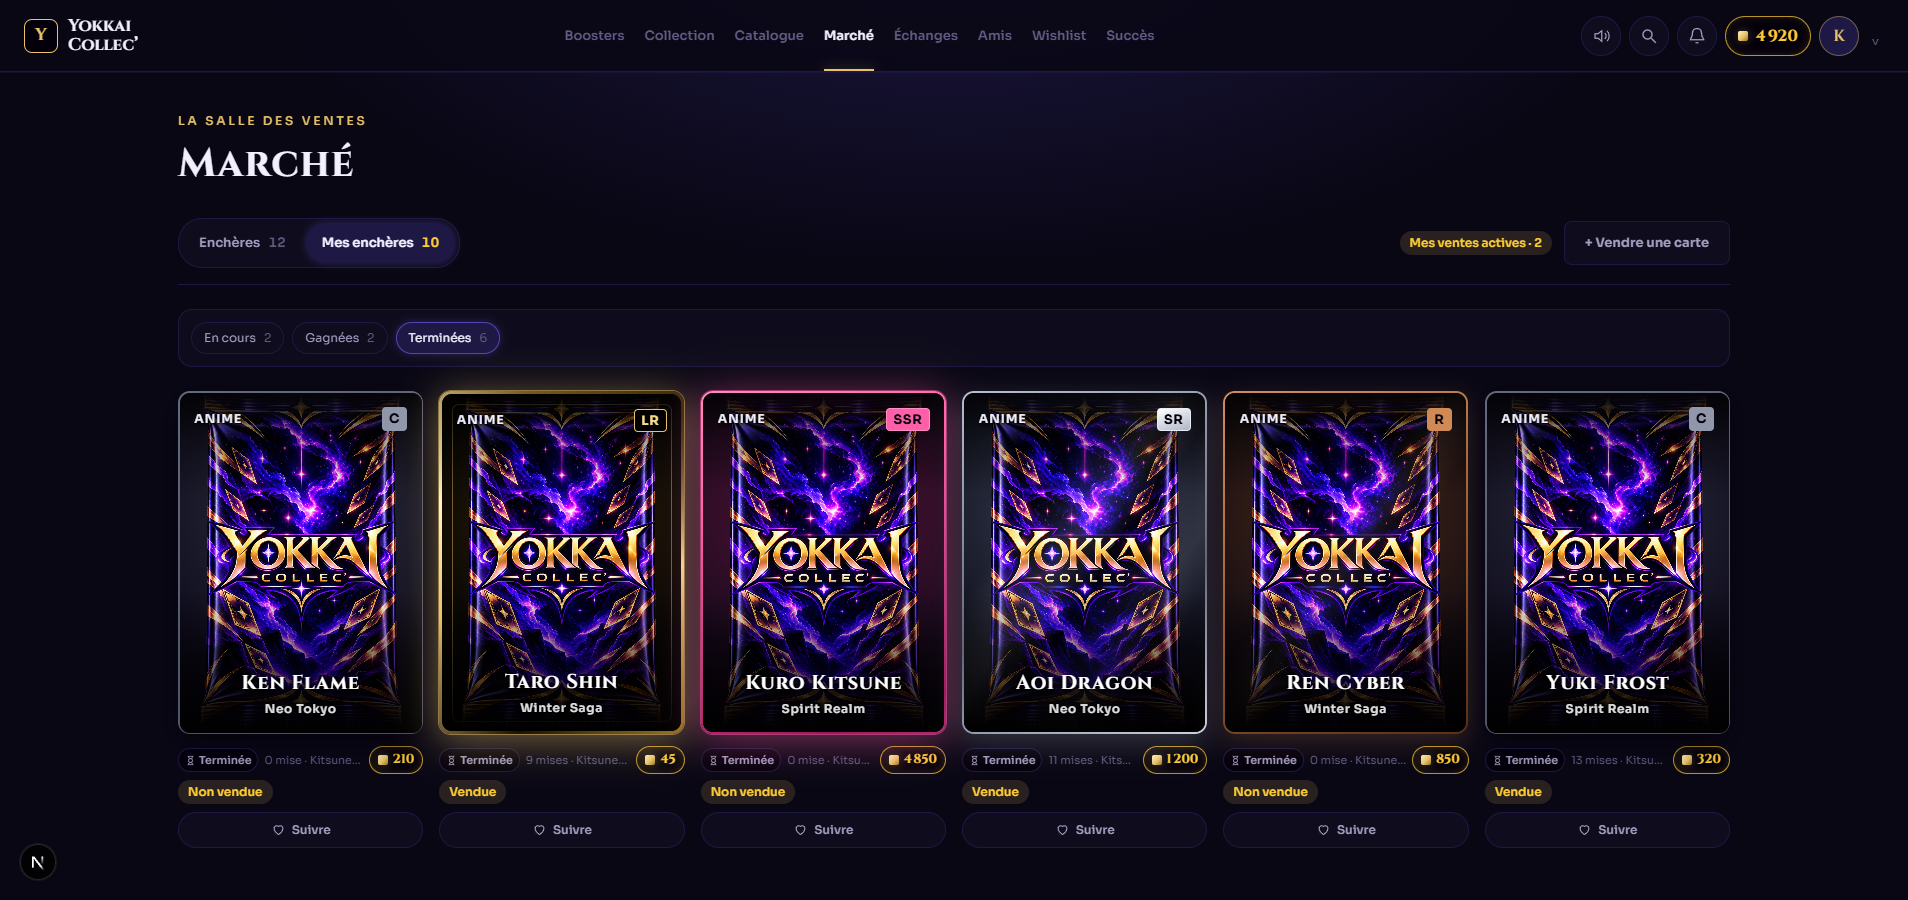
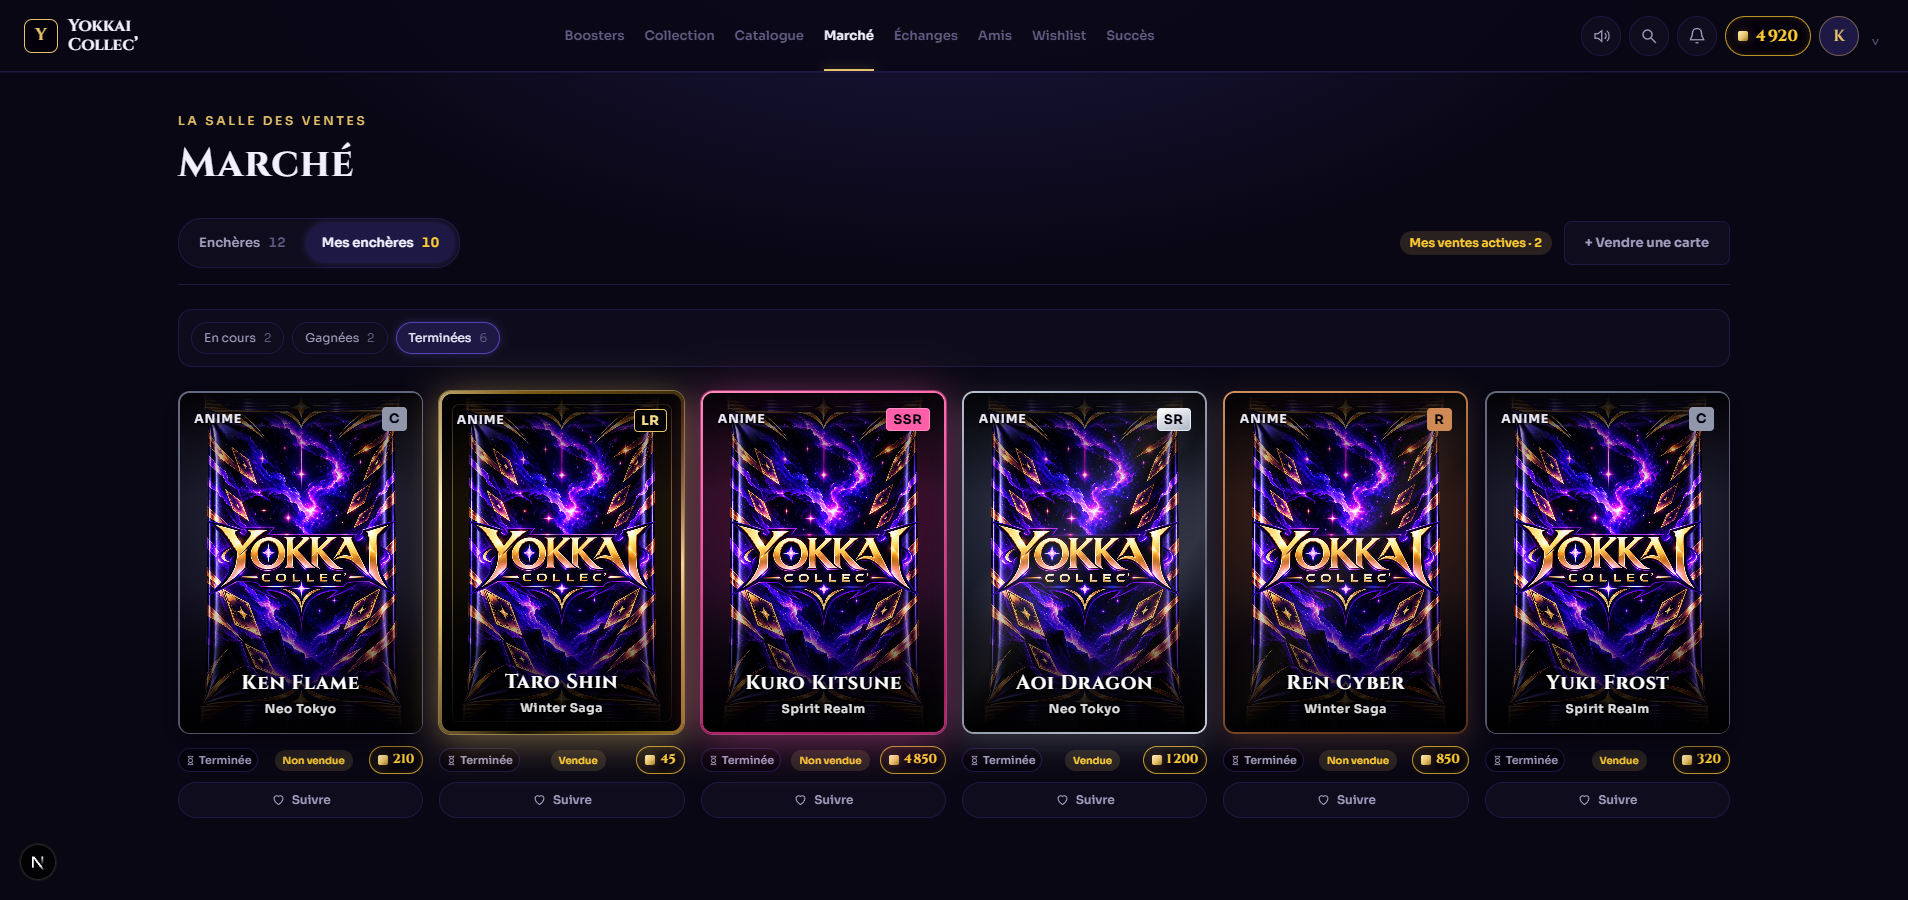
fix(ui): status on the market tile line; heart-only watch on mobile detail
- Tiles: drop the bid count and seller; the status pill (En tête, Ma
  vente, Vendue...) takes their place between timer and price on tiles
  of 14rem+, and drops below on narrower tiles instead of truncating
- Auction detail (mobile): the Suivre button becomes a 44px heart next
  to the title; the label stays available to screen readers
- Watch hover styles limited to fine pointers so the watched colour is
  not overridden by sticky hover after a tap

diff --git a/components/community-views.tsx b/components/community-views.tsx
@@ -45,13 +45,13 @@ const formatKaras = (amount:number) => `${amount.toLocaleString("fr-FR")} Karas`
 function HourglassIcon() { return <svg aria-hidden="true" width="13" height="13" viewBox="0 0 24 24" fill="none" stroke="currentColor" strokeWidth="1.8" strokeLinecap="round" strokeLinejoin="round"><path d="M6 3h12M6 21h12M7 3c0 5 10 5 10 9s-10 4-10 9M17 3c0 5-10 5-10 9s10 4 10 9"/></svg>; }
 function WatchButton({ watched, onToggle, className = "" }: { watched?: boolean; onToggle?: () => Promise<void>; className?: string }) {
   const [busy,setBusy]=useState(false);
-  return <button type="button" aria-pressed={!!watched} disabled={!onToggle||busy} className={`yk-watch-button ${watched?"yk-watching":""} ${className}`} onClick={async()=>{if(!onToggle||busy)return;setBusy(true);try{await onToggle();}finally{setBusy(false);}}}><svg aria-hidden="true" width="15" height="15" viewBox="0 0 24 24" fill={watched?"currentColor":"none"} stroke="currentColor" strokeWidth="1.8" strokeLinejoin="round"><path d="M12 20s-7-4.35-7-10a4 4 0 0 1 7-2.65A4 4 0 0 1 19 10c0 5.65-7 10-7 10Z"/></svg><span>{watched?"Suivi":"Suivre"}</span></button>;
+  return <button type="button" aria-pressed={!!watched} disabled={!onToggle||busy} aria-label={watched?"Ne plus suivre cette enchère":"Suivre cette enchère"} className={`yk-watch-button ${watched?"yk-watching":""} ${className}`} onClick={async()=>{if(!onToggle||busy)return;setBusy(true);try{await onToggle();}finally{setBusy(false);}}}><svg aria-hidden="true" width="15" height="15" viewBox="0 0 24 24" fill={watched?"currentColor":"none"} stroke="currentColor" strokeWidth="1.8" strokeLinejoin="round"><path d="M12 20s-7-4.35-7-10a4 4 0 0 1 7-2.65A4 4 0 0 1 19 10c0 5.65-7 10-7 10Z"/></svg><span className="yk-watch-label">{watched?"Suivi":"Suivre"}</span></button>;
 }
 function AuctionTile({ auction: a, onToggleWatch }: { auction: AuctionPresentation; onToggleWatch?: (id: string) => Promise<void> }) {
   return <li className="yk-market-tile">
     <Link href={`/marche/${a.id}`} className="yk-market-tile-link" aria-label={`Voir l’enchère ${a.card.name}, ${formatKaras(a.amount)}, ${a.finished?"terminée":`fin dans ${a.remaining}`}`}>
       <CardShell><YokaiCard {...a.card}/></CardShell>
-      <div className="yk-market-tile-meta"><div className="yk-market-tile-line"><span className={`yk-market-timer ${a.finished?"":urgencyClass(a.remainingSeconds)}`}><HourglassIcon/>{a.finished?"Terminée":a.remaining}</span><p className="yk-market-tile-bids" title={`${a.bids} mise${a.bids>1?"s":""} · ${a.seller}`}>{a.bids} mise{a.bids>1?"s":""} · {a.seller}</p><Karas amount={a.amount} className="yk-market-price"/></div>{a.status&&<div className="yk-market-tile-status"><AuctionStatus status={a.status}/></div>}</div>
+      <div className="yk-market-tile-meta"><div className="yk-market-tile-line"><span className={`yk-market-timer ${a.finished?"":urgencyClass(a.remainingSeconds)}`}><HourglassIcon/>{a.finished?"Terminée":a.remaining}</span><span className="yk-market-tile-state">{a.status&&<AuctionStatus status={a.status}/>}</span><Karas amount={a.amount} className="yk-market-price"/></div></div>
     </Link>
     <WatchButton watched={a.wishlist} onToggle={onToggleWatch?()=>onToggleWatch(a.id):undefined} className="yk-market-tile-watch"/>
   </li>;
@@ -107,7 +107,7 @@ export function AuctionView({auction,onBid,onToggleWatch}: {auction?:AuctionPres
   return <div className="yk-auction-page">
     <div className="yk-auction-art"><YokaiCard {...auction.card}/></div>
     <div className="yk-auction-main">
-      <header className="yk-auction-header"><div className="min-w-0"><div className="flex flex-wrap items-center gap-2"><span className={`text-sm font-bold tracking-widest ${catalogueRarityText[auction.card.rarity]}`}>{auction.card.rarity}</span>{auction.status&&<AuctionStatus status={auction.status}/>}</div><h2 className="mt-2 font-display">{auction.card.name}</h2><p className="mt-2 text-sm text-ink-2">{franchise} · vendue par <Link href={`/profil/${encodeURIComponent(auction.seller)}`} className="font-semibold hover:text-accent-gold">{auction.seller}</Link></p></div>{onToggleWatch&&<WatchButton watched={auction.wishlist} onToggle={onToggleWatch}/>}</header>
+      <header className="yk-auction-header"><div className="min-w-0"><div className="flex flex-wrap items-center gap-2"><span className={`text-sm font-bold tracking-widest ${catalogueRarityText[auction.card.rarity]}`}>{auction.card.rarity}</span>{auction.status&&<AuctionStatus status={auction.status}/>}</div><h2 className="mt-2 font-display">{auction.card.name}</h2><p className="mt-2 text-sm text-ink-2">{franchise} · vendue par <Link href={`/profil/${encodeURIComponent(auction.seller)}`} className="font-semibold hover:text-accent-gold">{auction.seller}</Link></p></div>{onToggleWatch&&<WatchButton watched={auction.wishlist} onToggle={onToggleWatch} className="yk-auction-watch"/>}</header>
       <section className="yk-auction-panel" aria-label="Enchérir">
         <div className="yk-auction-figures"><div><p className="yk-auction-label">Prix actuel</p><Karas amount={auction.amount} className="yk-auction-price"/><p className="mt-1 text-xs text-ink-3">{auction.bids} mise{auction.bids>1?"s":""}</p></div><div><p className="yk-auction-label">{auction.finished?"Enchère terminée":"Temps restant"}</p><p className={`yk-auction-countdown font-display ${auction.finished?"":urgencyClass(auction.remainingSeconds)} ${auction.extended?"yk-countdown-extended":""}`} aria-live="off">{auction.finished?"00:00:00":auction.remaining}</p></div></div>
         {auction.extended&&!auction.finished&&<p role="status" className="yk-auction-extension"><HourglassIcon/>Une minute a été ajoutée à l’enchère.</p>}

diff --git a/styles/market.css b/styles/market.css
@@ -17,21 +17,24 @@
 .yk-market-tile { display: flex; min-width: 0; flex-direction: column; gap: calc(var(--spacing) * 2); container-type: inline-size; }
 .yk-market-tile-link { display: block; min-width: 0; border-radius: var(--radius-card); }
 .yk-market-tile-meta { display: grid; gap: calc(var(--spacing) * 1.5); margin-top: calc(var(--spacing) * 3); }
-/* Timer · bids/seller · price on one line when the tile is wide enough; the bids text drops below on narrow tiles. */
-.yk-market-tile-line { display: grid; grid-template-columns: auto minmax(0,1fr) auto; grid-template-areas: "timer bids price"; align-items: center; gap: calc(var(--spacing) * 1.5); }
+/* Timer · status · price on one line when the tile is wide enough; the status drops below on narrow tiles. */
+.yk-market-tile-line { display: grid; grid-template-columns: auto minmax(0,1fr) auto; grid-template-areas: "timer state price"; align-items: center; gap: calc(var(--spacing) * 1.5); }
 .yk-market-tile-line > .yk-market-timer { grid-area: timer; }
 .yk-market-tile-line > .yk-market-price { grid-area: price; justify-self: end; }
-.yk-market-tile-bids { grid-area: bids; min-width: 0; overflow: hidden; color: var(--color-ink-3); font-size: 11px; text-overflow: ellipsis; white-space: nowrap; }
-@container (max-width: 13rem) { .yk-market-tile-line { grid-template-columns: auto minmax(0,1fr); grid-template-areas: "timer price" "bids bids"; row-gap: calc(var(--spacing) * 1); } }
-.yk-market-tile-status { display: flex; flex-wrap: wrap; align-items: center; gap: calc(var(--spacing) * 1.5); }
-.yk-market-tile-status > span { white-space: nowrap; }
+.yk-market-tile-state { grid-area: state; display: flex; min-width: 0; justify-content: center; white-space: nowrap; }
+.yk-market-tile-state:empty { display: none; }
+.yk-market-tile-state > span { display: block; max-width: 100%; overflow: hidden; padding-inline: calc(var(--spacing) * 2); font-size: 10px; text-overflow: ellipsis; }
+@container (max-width: 14rem) {
+  .yk-market-tile-line { grid-template-columns: auto minmax(0,1fr); grid-template-areas: "timer price" "state state"; row-gap: calc(var(--spacing) * 1); }
+  .yk-market-tile-state { justify-content: flex-start; }
+}
 .yk-market-timer { display: inline-flex; align-items: center; gap: calc(var(--spacing) * .75); padding: calc(var(--spacing) * .75) calc(var(--spacing) * 1.5); border: 1px solid var(--color-veil); border-radius: var(--radius-pill); background: var(--color-void); color: var(--color-ink-2); font-size: 11px; font-weight: 600; font-variant-numeric: tabular-nums; white-space: nowrap; }
 .yk-market-timer.yk-urgency-soon { border-color: color-mix(in srgb,var(--color-karas) 45%,transparent); background: color-mix(in srgb,var(--color-karas) 12%,var(--color-void)); color: var(--color-karas); }
 .yk-market-timer.yk-urgency-critical { border-color: color-mix(in srgb,var(--color-danger) 55%,transparent); background: color-mix(in srgb,var(--color-danger) 14%,var(--color-void)); color: var(--color-danger-ink); animation: yk-urgency-blink var(--duration-skeleton) var(--ease-standard) infinite; }
 .yk-market-price { flex-shrink: 0; gap: calc(var(--spacing) * 1.25); padding: calc(var(--spacing) * .75) calc(var(--spacing) * 2); font-size: 13px; }
 .yk-market-timer svg { width: 11px; height: 11px; }
 .yk-watch-button { display: inline-flex; align-items: center; justify-content: center; gap: calc(var(--spacing) * 1.5); min-height: 36px; padding: 0 calc(var(--spacing) * 3); border: 1px solid var(--color-veil); border-radius: var(--radius-pill); background: var(--color-surface); color: var(--color-ink-2); font-size: 12px; font-weight: 600; transition: border-color var(--duration-fast) var(--ease-standard),background var(--duration-fast) var(--ease-standard),color var(--duration-fast) var(--ease-standard); }
-.yk-watch-button:hover:not(:disabled) { border-color: var(--color-veil-strong); color: var(--color-ink); }
+@media (hover: hover) and (pointer: fine) { .yk-watch-button:not(.yk-watching):hover:not(:disabled) { border-color: var(--color-veil-strong); color: var(--color-ink); } }
 .yk-watch-button.yk-watching { border-color: var(--color-rarity-ssr); background: color-mix(in srgb,var(--color-rarity-ssr) 15%,var(--color-surface)); color: var(--color-rarity-ssr); }
 .yk-watch-button:disabled { cursor: default; opacity: .6; }
 /* Tiles of a row share the row height: pin "Suivre" to the bottom so it lines up whatever the meta length. */
@@ -91,7 +94,10 @@
   .yk-market-sort { width: 100%; justify-content: space-between; }
   .yk-auction-page { grid-template-columns: minmax(0,1fr); grid-template-areas: "art" "main" "history"; margin-top: var(--layout-gutter-compact); }
   .yk-auction-art { width: min(100%,var(--market-art-width-mobile)); margin-inline: auto; }
-  .yk-auction-header { flex-direction: column; }
+  /* Mobile: the watch control collapses to a heart next to the title. */
+  .yk-auction-watch { flex-shrink: 0; width: 44px; min-height: 44px; padding: 0; border-radius: 50%; }
+  .yk-auction-watch svg { width: 20px; height: 20px; }
+  .yk-auction-watch .yk-watch-label { position: absolute; width: 1px; height: 1px; overflow: hidden; clip: rect(0 0 0 0); white-space: nowrap; }
   .yk-auction-panel { padding: var(--layout-gutter-compact); }
   .yk-auction-history { padding-inline: var(--layout-gutter-compact); }
 }

diff --git a/components/market-preview.tsx b/components/market-preview.tsx
@@ -11,13 +11,13 @@ const names = ["Kuro Kitsune", "Aoi Dragon", "Ren Cyber", "Yuki Frost", "Ken Fla
 const active: AuctionPresentation[] = Array.from({ length: 12 }, (_, index) => ({
   id: `preview-${index}`,
   card: { id: `card-${index}`, name: names[index % names.length], category: "Anime", anime: ["Spirit Realm", "Neo Tokyo", "Winter Saga"][index % 3], rarity: rarities[index % rarities.length], image: "/assets/booster-pack.png" },
-  amount: [4850, 1200, 850, 320, 210, 45][index % 6], remaining: ["00:02:14", "00:14:50", "01:12:00", "03:45:00", "08:10:00", "18:30:00"][index % 6], remainingSeconds: [134, 890, 4320, 13500, 29400, 66600][index % 6], seller: "KitsuneMaster", bids: 4 + index, wishlist: index === 1,
+  amount: [4850, 1200, 850, 320, 210, 45][index % 6], remaining: ["00:02:14", "00:14:50", "01:12:00", "03:45:00", "08:10:00", "18:30:00"][index % 6], remainingSeconds: [134, 890, 4320, 13500, 29400, 66600][index % 6], seller: "KitsuneMaster", bids: 4 + index, wishlist: index === 1, status: index === 2 ? "leading" : index === 5 ? "mine" : undefined,
 }));
 
 export function MarketPreview({ empty = false }: { empty?: boolean }) {
   const [watched, setWatched] = useState(() => new Set(active.filter(a => a.wishlist).map(a => a.id)));
   const withWatch = (items: AuctionPresentation[]) => items.map(a => ({ ...a, wishlist: watched.has(a.id) }));
-  const lists = empty ? { active: withWatch(active), mine: [], won: [], sold: [] } : { active: withWatch(active), mine: withWatch(active.slice(0, 2)).map(a => ({ ...a, status: "mine" as const })), won: withWatch(active.slice(2, 4)).map(a => ({ ...a, status: "won" as const, finished: true })), sold: withWatch(active.slice(4, 10)).map((a, index) => ({ ...a, status: index % 2 ? "sold" as const : "unsold" as const, bids: index % 2 ? a.bids : 0, finished: true })) };
+  const lists = empty ? { active: withWatch(active), mine: [], won: [], sold: [] } : { active: withWatch(active), mine: withWatch(active.slice(0, 2)).map((a, index) => ({ ...a, status: index ? "leading" as const : "mine" as const })), won: withWatch(active.slice(2, 4)).map(a => ({ ...a, status: "won" as const, finished: true })), sold: withWatch(active.slice(4, 10)).map((a, index) => ({ ...a, status: index % 2 ? "sold" as const : "unsold" as const, bids: index % 2 ? a.bids : 0, finished: true })) };
   return <MarketView lists={lists} activeSales={empty ? "0" : "2"} onToggleWatch={async id => setWatched(current => { const next = new Set(current); if (next.has(id)) next.delete(id); else next.add(id); return next; })} />;
 }
 
